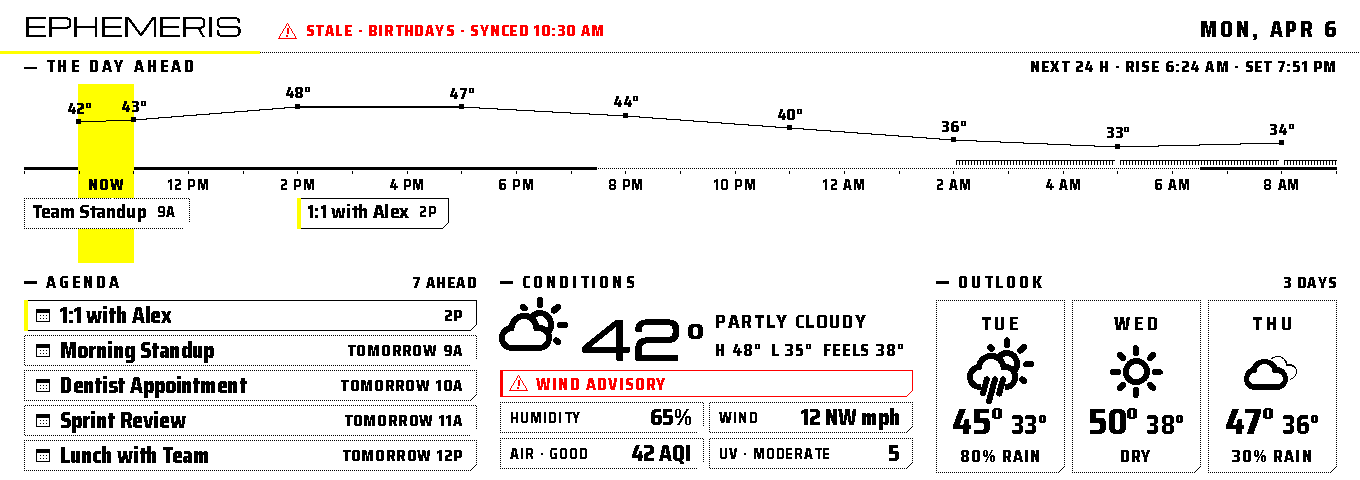
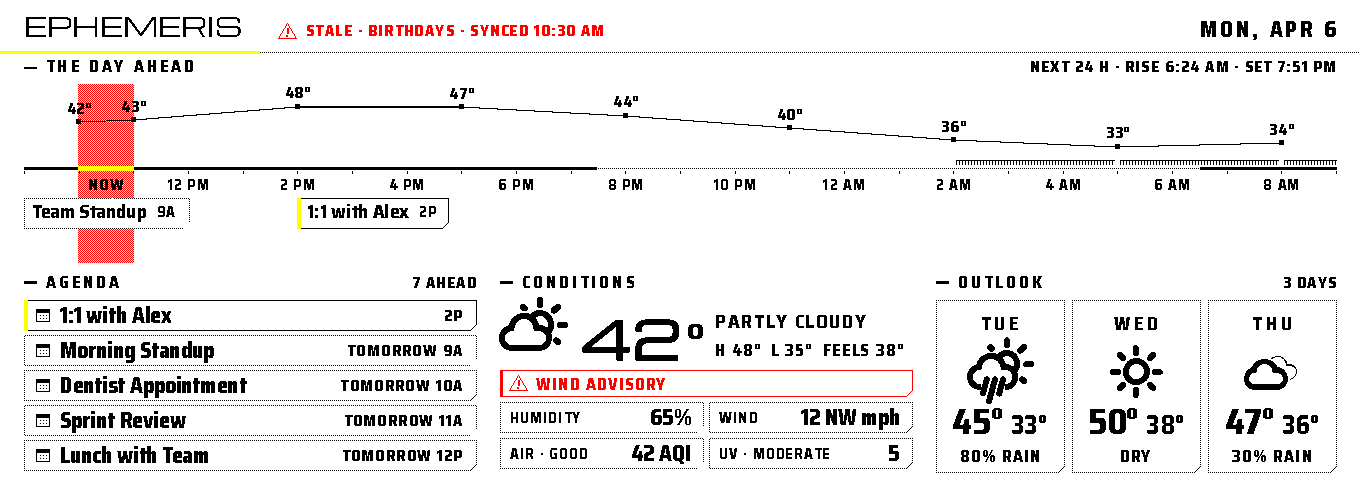
wide_ephemeris_light: screen the large gold fills orange
Yellow alone is faint on white, so the light plate's two large gold fills,
the current-hour column and the slab under way, are now an ordered
half-and-half of the yellow and red inks, which the panel shows as orange.
Every pixel is still one of the four inks. fill_gold() phases the Bayer
screen to the canvas so the column and a slab beside it read as one fill.

Thin marks (the rule, the next slab's edge, the hour's band on the axis)
stay solid yellow, where a screen reads as noise. The dark plate and every
monochrome render are unchanged; now_column becomes the flag it already was.

Claude-Session: https://claude.ai/code/session_019qTrT72frvfvEMwEDpzxZM

Changed region(s): [[0.0618, 0.1562, 0.0926, 0.4062], [0.0618, 0.4688, 0.0926, 0.5625]]

diff --git a/src/render/components/wide_ephemeris_panel.py b/src/render/components/wide_ephemeris_panel.py
@@ -45,12 +45,13 @@ from __future__ import annotations
 from dataclasses import dataclass
 from datetime import date, datetime, timedelta, tzinfo
 
-from PIL import ImageDraw, ImageFont
+import numpy as np
+from PIL import Image, ImageDraw, ImageFont
 
 from src.data.models import Birthday, CalendarEvent, DashboardData, StalenessLevel, WeatherData
 from src.render import fonts
 from src.render.artkit import to_local_naive
-from src.render.components.wide_horizon_panel import altitude_fn, sun_zone
+from src.render.components.wide_horizon_panel import altitude_fn, bayer_field, sun_zone
 from src.render.icons import FALLBACK_ICON, OWM_ICON_MAP
 from src.render.moon import moon_illumination, moon_phase_name
 from src.render.primitives import (
@@ -126,6 +127,7 @@ TYPE_WIDTH = 85
 # The tracking of the small caps, as a fraction of their size.
 TRACK = 0.08
 SOLAR_HORIZON_DEG = -0.833
+GOLD_MIX_ON_PAPER = 0.5
 
 
 @dataclass(frozen=True)
@@ -135,8 +137,9 @@ class Inks:
     Gold plays two parts: ``gold`` fills (the lit slab, the rule, the hour's
     band) and ``gold_ink`` sets type and thin marks. They differ on the light
     plate, where yellow type on paper does not read: there the gold is only
-    ever a fill, and ``now_column`` is the yellow column standing behind the
-    strip at the current hour in place of the gold line.
+    ever a fill, ``now_column`` stands a gold column behind the strip at the
+    current hour in place of the gold line, and ``gold_mix`` screens red into
+    the column and the lit slab so they read as orange.
     """
 
     ground: Fill
@@ -146,10 +149,13 @@ class Inks:
     on_gold: Fill  # type set on a gold fill
     red: Fill
     colour: bool
-    now_column: Fill | None = None
+    now_column: bool = False
     # Saira's weight on this ground: black ink spreads into white strokes on a
     # reflective panel, so type knocked out of the dark plate is set heavier.
     weight: int = 800
+    # The share of red ordered into a gold fill. Yellow alone is faint on paper;
+    # half red reads as orange, still pure inks pixel by pixel.
+    gold_mix: float = 0.0
 
 
 def inks_for(mode: str, light: bool = False) -> Inks:
@@ -160,7 +166,16 @@ def inks_for(mode: str, light: bool = False) -> Inks:
         red = INKY_SPECTRA6_PALETTE[INKY_RED]
         if light:
             return Inks(
-                white, black, yellow, black, black, red, True, now_column=yellow, weight=800
+                white,
+                black,
+                yellow,
+                black,
+                black,
+                red,
+                True,
+                now_column=True,
+                weight=800,
+                gold_mix=GOLD_MIX_ON_PAPER,
             )
         return Inks(black, white, yellow, yellow, black, red, True, weight=900)
     paper = 1 if mode == "1" else 255
@@ -227,6 +242,29 @@ def dotted_hline(draw: ImageDraw.ImageDraw, y: int, x0: int, x1: int, fill: Fill
         draw.point((x, y), fill=fill)
 
 
+def fill_gold(draw: ImageDraw.ImageDraw, poly: Poly, ink: Inks) -> None:
+    """Fill *poly* with gold, screened with ``ink.gold_mix`` of red where it is set.
+
+    The screen is a Bayer field phased to the canvas, so two gold areas side by
+    side read as one continuous fill.
+    """
+    draw.polygon(poly, fill=ink.gold)
+    image = getattr(draw, "_image", None)
+    if not ink.gold_mix or image is None or image.mode != "RGB":
+        return
+    xs, ys = [p[0] for p in poly], [p[1] for p in poly]
+    x0, y0 = max(int(min(xs)), 0), max(int(min(ys)), 0)
+    x1, y1 = min(int(max(xs)) + 1, image.width), min(int(max(ys)) + 1, image.height)
+    if x1 <= x0 or y1 <= y0:
+        return
+    shape = Image.new("1", image.size, 0)
+    ImageDraw.Draw(shape).polygon(poly, fill=1)
+    inside = np.array(shape.crop((x0, y0, x1, y1)), dtype=bool)
+    screen = bayer_field(x1 - x0, y1 - y0, x0, y0) < ink.gold_mix
+    mask = Image.fromarray(((inside & screen) * 255).astype(np.uint8), "L")
+    image.paste(ink.red, (x0, y0, x1, y1), mask)
+
+
 def slab_polygon(x0: float, y0: float, x1: float, y1: float, bevel: int = BEVEL) -> Poly:
     """A slab's outline with its bottom-right corner cut."""
     b = min(bevel, (x1 - x0) / 2, (y1 - y0) / 2)
@@ -260,7 +298,9 @@ def draw_slab(
     poly = slab_polygon(x0, y0, x1, y1)
     if tone == "lit":
         # Outlined where the column at now is the same yellow, or the slab merges with it.
-        draw.polygon(poly, fill=ink.gold, outline=ink.text if ink.now_column else None)
+        fill_gold(draw, poly, ink)
+        if ink.now_column:
+            draw.polygon(poly, outline=ink.text)
         return ink.on_gold
     # Every other slab is filled with ground, so the gold line at now passes behind it.
     draw.polygon(poly, fill=ink.ground)
@@ -587,11 +627,9 @@ def _draw_strip(
     # The axis: a dim hairline, the daylight lit along it, a tick each hour.
     axis_y = ry + AXIS_Y
     now_x = window.x(hour)
-    if ink.now_column is not None:
-        draw.rectangle(
-            (now_x, ry + TRACE_TOP - 22, now_x + window.px_per_hour, ry + STRIP_BOTTOM),
-            fill=ink.now_column,
-        )
+    if ink.now_column:
+        column = (now_x, ry + TRACE_TOP - 22, now_x + window.px_per_hour, ry + STRIP_BOTTOM)
+        fill_gold(draw, slab_polygon(*column, bevel=0), ink)
     dotted_hline(draw, axis_y, x0, x1, ink.text)
     altitude = altitude_fn(weather, latitude, longitude, sun_zone(tz, latitude, longitude))
     for a, b in daylight(window, altitude):
@@ -605,7 +643,7 @@ def _draw_strip(
     # readings and labels it crosses are knocked out of it. Where the hour is a
     # column instead, NOW is set inside it.
     now_font = _face(16, ink)
-    if ink.now_column is None:
+    if not ink.now_column:
         draw.rectangle((now_x - 1, ry + TRACE_TOP - 22, now_x, ry + STRIP_BOTTOM), fill=ink.gold)
         half = tracked_width(draw, "NOW", now_font) / 2
         draw.rectangle(
@@ -688,7 +726,7 @@ def _draw_trace(
         label = f"{round_temp(temp)}°"
         half = tracked_width(draw, label, font, 0.05) / 2
         lx = min(px, window.x1 - half)
-        if ink.now_column is None:
+        if not ink.now_column:
             draw.rectangle((lx - half - 2, py - 20, lx + half + 2, py - 6), fill=ink.ground)
         draw_tracked(draw, lx, py - 8, label, font, fill, tracking=0.05, align="center")
 

diff --git a/tests/test_wide_ephemeris_theme.py b/tests/test_wide_ephemeris_theme.py
@@ -296,15 +296,23 @@ class TestLight:
         assert set(flatten_pixels(img)) <= {(0, 0, 0), (255, 255, 255), YELLOW, RED}
         assert img.getpixel((2, 2)) == (255, 255, 255)
 
-    def test_the_current_hour_is_a_yellow_column_only_on_paper(self):
-        light = _count(_render_light(_data()), YELLOW, self.COLUMN)
-        dark = _count(_render(_data()), YELLOW, self.COLUMN)
-        assert light > 3000
-        assert dark < 200
+    def test_the_current_hour_is_an_orange_column_only_on_paper(self):
+        light = _render_light(_data())
+        yellow, red = _count(light, YELLOW, self.COLUMN), _count(light, RED, self.COLUMN)
+        assert yellow > 1200 and red > 1200  # screened half and half: orange
+        assert abs(yellow - red) < 0.25 * (yellow + red)
+        assert _count(_render(_data()), YELLOW, self.COLUMN) < 200
 
     def test_gold_is_never_type_on_paper(self):
         assert _count(_render(_data()), YELLOW, self.WORDMARK) > 500
         assert _count(_render_light(_data()), YELLOW, self.WORDMARK) == 0
+
+    def test_lit_slab_is_screened_orange_on_paper_and_solid_yellow_on_dark(self):
+        light, dark = _render_light(_data()), _render(_data())
+        assert _count(light, RED, FIRST_ROW) > 4000
+        assert _count(light, YELLOW, FIRST_ROW) > 4000
+        assert _count(dark, RED, FIRST_ROW) == 0  # the dark plate's gold is pure yellow
+        assert _count(dark, YELLOW, FIRST_ROW) > 9000
 
     def test_lit_slab_is_yellow_on_colour_and_solid_black_on_mono(self):
         between = NOW.replace(hour=11, minute=0) - timedelta(minutes=1)

diff --git a/src/render/themes/wide_ephemeris_light.py b/src/render/themes/wide_ephemeris_light.py
@@ -2,9 +2,11 @@
 
 The same strip, agenda, conditions and outlook as ``wide_ephemeris``, set in
 black on white. Yellow type does not read on paper, so the gold is only ever a
-fill here: the slab under way is yellow with black type, the current hour is a
-yellow column standing behind the strip in place of the gold line, and the
-wordmark goes black over a yellow rule. Alerts stay red. On monochrome the
+fill here, and yellow alone is faint on white, so the two large fills are an
+ordered half-and-half of yellow and red that reads as orange: the slab under
+way, with black type, and the current hour as a column standing behind the
+strip in place of the gold line. Thin marks stay solid yellow, where a screen
+reads as noise; the wordmark goes black over a yellow rule. Alerts stay red. On monochrome the
 under-way slab is solid black with white type and the hour is a black line.
 
 The layout is ``wide_ephemeris``'s with a different component in

diff --git a/docs/themes.md b/docs/themes.md
@@ -226,7 +226,7 @@ the panel's own four inks.
 | `wide_night` | a night mode for the strip | Almost all negative space: the moon's phase, the temperature, the air-quality index and the weather glyph at one shared height, evenly spaced across the middle with small letter-spaced labels beneath, in black on a solid red ground. Jura numerals, Oxanium ExtraBold labels. Not in the random rotation — schedule it for after dark. |
 | `wide_night_invert` | the night mode, red on black | `wide_night` with ground and ink swapped: red marks and labels on a black ground (black on white on monochrome). |
 | `wide_ephemeris` | the day ahead, HUD style | The Ephemeris plate from the Apple TV app: gold on a dark ground, the next 24 hours as a strip (temperature, rain, daylight, events in lanes, a gold line at the current hour) over an agenda, the conditions now and a multi-day outlook. Michroma and Saira type. |
-| `wide_ephemeris_light` | the day ahead, on paper | `wide_ephemeris` in black on white: the gold becomes yellow fills only (the event under way, the current hour as a column behind the strip), never type. Partial refresh on monochrome. |
+| `wide_ephemeris_light` | the day ahead, on paper | `wide_ephemeris` in black on white: the gold becomes fills only, never type, with the event under way and the current hour (a column behind the strip) screened orange from yellow and red. Partial refresh on monochrome. |
 | `wide_horizon` | the next three days at a glance | One 72-hour time axis shared by everything: a sky coloured by the sun's real altitude (day, dithered twilights, night with stars and the moon), clouds and rain drawn per forecast slot, the temperature as one line across it, rain chance hanging beneath, and the calendar beneath: a strip marking each event on the same hours, over a one-line-per-event list for each day. Conditions now and a three-line outlook in a hero block at the left. |
 
 ### Utility themes
@@ -483,7 +483,7 @@ Needs weather and calendar. The strip steps on the clock hour and the plate repa
 
 #### wide_ephemeris_light
 
-`wide_ephemeris` on a paper ground: the same strip, agenda, conditions and outlook in black on white. Yellow type does not read on paper, so the gold is only ever a fill: the event under way is a yellow slab, the current hour a yellow column standing behind the strip, the wordmark black over a yellow rule. Alerts stay red. On monochrome the event under way is a solid black slab and the hour a black line; the paper ground keeps partial refresh there. See [Panoramic Themes](wide-themes.md#wide_ephemeris_light).
+`wide_ephemeris` on a paper ground: the same strip, agenda, conditions and outlook in black on white. Yellow type does not read on paper, so the gold is only ever a fill, and the large fills are screened half yellow, half red so they read as orange: the event under way is an orange slab, the current hour an orange column standing behind the strip, the wordmark black over a yellow rule. Alerts stay red. On monochrome the event under way is a solid black slab and the hour a black line; the paper ground keeps partial refresh there. See [Panoramic Themes](wide-themes.md#wide_ephemeris_light).
 
 [![Wide ephemeris light theme](../assets/previews/theme_wide_ephemeris_light.png)](../assets/previews/theme_wide_ephemeris_light.png)
 

diff --git a/CHANGELOG.md b/CHANGELOG.md
@@ -11,12 +11,13 @@ The format is based on [Keep a Changelog](https://keepachangelog.com/).
 - `wide_ephemeris`, a panoramic theme after the Apple TV app's Ephemeris: the
   next 24 hours as a strip (temperature trace, rain, daylight, events in two
   lanes, a gold line at the current hour) over an agenda, the conditions now
-  and a multi-day outlook, gold on black on the four-ink panel. Bundles the
+  and a three-day outlook, gold on black on the four-ink panel. Bundles the
   Michroma and Saira typefaces (OFL), set heavy and no smaller than
   `wide_horizon`'s type so the plate reads from about a metre. Repaints at
-  most once an hour. `wide_ephemeris_light` is the same plate in black on white, with the gold
-  as yellow fills only: the event under way, and the current hour as a
-  column behind the strip.
+  most once an hour. `wide_ephemeris_light` is the same plate in black on
+  white, with the gold as fills only: the event under way and the current
+  hour (a column behind the strip) screened orange from the yellow and red
+  inks.
 - `halftone_agenda` shows birthdays: one that falls on the agenda's day sets
   as an all-day row ahead of the calendar's ("Mom turns 70"), and follows
   the TOMORROW rollover. A long title with no location wraps onto the row's

diff --git a/docs/wide-themes.md b/docs/wide-themes.md
@@ -165,9 +165,11 @@ panel exactly as rendered.
 ### wide_ephemeris_light
 
 `wide_ephemeris` on a white ground. Yellow lettering does not read on white
-paper, so here the yellow is only ever a filled area: the event under way is a
-yellow slab with black type, and the current hour is a yellow column standing
-behind the strip where the dark plate has a gold line. The wordmark is black
+paper, so here the yellow is only ever a filled area, and the two large ones are
+half yellow, half red in an ordered pattern that reads as orange: the event
+under way is an orange slab with black type, and the current hour is an orange
+column standing behind the strip where the dark plate has a gold line. Every
+pixel is still one of the four inks. The wordmark is black
 over a yellow rule; alerts stay red.
 [Full description ↗](themes.md#wide_ephemeris_light)
 
